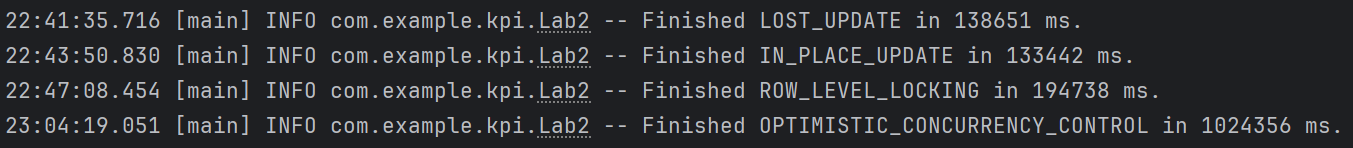
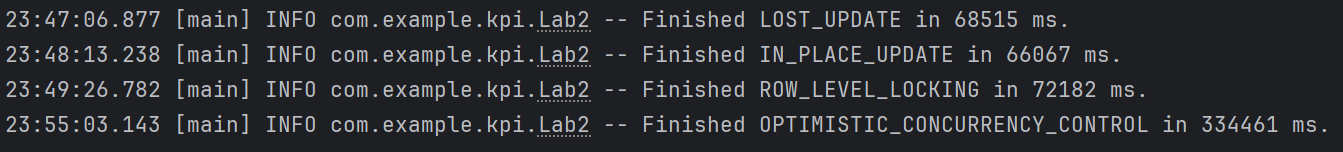
Change results in readme

diff --git a/README.md b/README.md
@@ -6,71 +6,73 @@ docker compose build --no-cache
 docker compose up -d
 ```
 Після запуску команд збереться кластер з 10-ти інстансів одного і того ж застосунку, та бази даних Postgres, та автоматично запуститься процес бенчмарку всіх чотирьох варіацій задачі.
-
+__Бібліотека Hazelcast використовувалася виключно для синхронізації стану бази даних між кожним заміром алгоритмів із завдання.__
 # Результати
 На скриншоті показаний типовий час виконання кожного типу завданої задачі
 ![img.png](img/img.png)
-Середній час по всім інстансам по кожній задачі:
+Статистика витраченого часу по всім інстансам по кожній задачі (в мілісекундах):
 
-Lost update:
+### Lost update:
+
+| Stat           |    Value |
+|:---------------|---------:|
+| Avg            |  68330.3 |
+| Count          |       10 |
+| Median         |  68504.5 |
+| Geometric Mean | 68328.88 |
+| Largest        |    68663 |
+| Smallest       |    67086 |
+| Range          |     1577 |
+
+### In-place update:
+
+| Stat           |    Value |
+|:---------------|---------:|
+| Avg            |  65944.9 |
+| Count          |       10 |
+| Median         |  65955.5 |
+| Geometric Mean | 65944.35 |
+| Largest        |    66291 |
+| Smallest       |    65306 |
+| Range          |      985 |
+
+### Row-level locking:
+
+| Stat           |    Value |
+|:---------------|---------:|
+| Avg            |  72037.6 |
+| Count          |       10 |
+| Median         |  72117.5 |
+| Geometric Mean | 72037.30 |
+| Largest        |    72227 |
+| Smallest       |    71538 |
+| Range          |      689 |
+
+### Optimistic concurrency control:
 
 | Stat           |     Value |
 |:---------------|----------:|
-| Avg            |  138141.5 |
+| Avg            |  429492.8 |
 | Count          |        10 |
-| Median         |    138452 |
-| Geometric Mean | 138139.74 |
-| Largest        |    138775 |
-| Smallest       |    136582 |
-| Range          |      2193 |
-
-In-place update:
-
-| Stat           |     Value |
-|:---------------|----------:|
-| Avg            |  132765.2 |
-| Count          |        10 |
-| Median         |    132691 |
-| Geometric Mean | 132764.10 |
-| Largest        |    133469 |
-| Smallest       |    131656 |
-| Range          |      1813 |
-
-Row-level locking:
-
-| Stat           |     Value |
-|:---------------|----------:|
-| Avg            |  195811.1 |
-| Count          |        10 |
-| Median         |    196974 |
-| Geometric Mean | 195780.77 |
-| Largest        |    198698 |
-| Smallest       |    187344 |
-| Range          |     11354 |
-
-Optimistic concurrency control:
-
-| Stat           |      Value |
-|:---------------|-----------:|
-| Avg            |    1016637 |
-| Count          |         10 |
-| Median         |  1021544.5 |
-| Geometric Mean | 1016577.63 |
-| Largest        |    1025296 |
-| Smallest       |     987339 |
-| Range          |      37957 |
+| Median         |  458840.5 |
+| Geometric Mean | 425186.85 |
+| Largest        |    488511 |
+| Smallest       |    334461 |
+| Range          |    154050 |
 
 В результаті оновлень колонка version отримала таке саме значення, як і counter
 ![img.png](img/img2.png)
 
 # Висновки
-Найповільніший метод синхронізації - optimistic concurrency control.
+Найповільніший метод синхронізації - optimistic concurrency control. Також має найбільшу варіанту витраченого часу.
 
-Найшвидший - In-place update, але з невеликим відривом від методу lost-update
+Найшвидший - In-place update, що навіть відпрацював швидше за lost update, в якому немає консистетності даних
 
-| Algorithm          | Time consumed, x(In-place) |
-|:-------------------|---------------------------:|
-| In-place           |                         1x |
-| Lost update        |                      1.04x |
-| Row-level locking  |                      1.47x |
-| Optimistic control |                      7.66x |
+| Algorithm                      | Time consumed, x(In-place) |
+|:-------------------------------|---------------------------:|
+| In-place update                |                         1x |
+| Lost update                    |                     1.036x |
+| Row-level locking              |                      1.09x |
+| Optimistic concurrency control |                      6.51x |
+
+### Примітка: попередня версія звіту (можна подивитись в історії комітів) була зроблена по коду з багом, що спричиняв мережевий ботл-нек, і що цікаво, алгоритм Optimistic concurrency control не мав таку варіанту значень по інстансах
